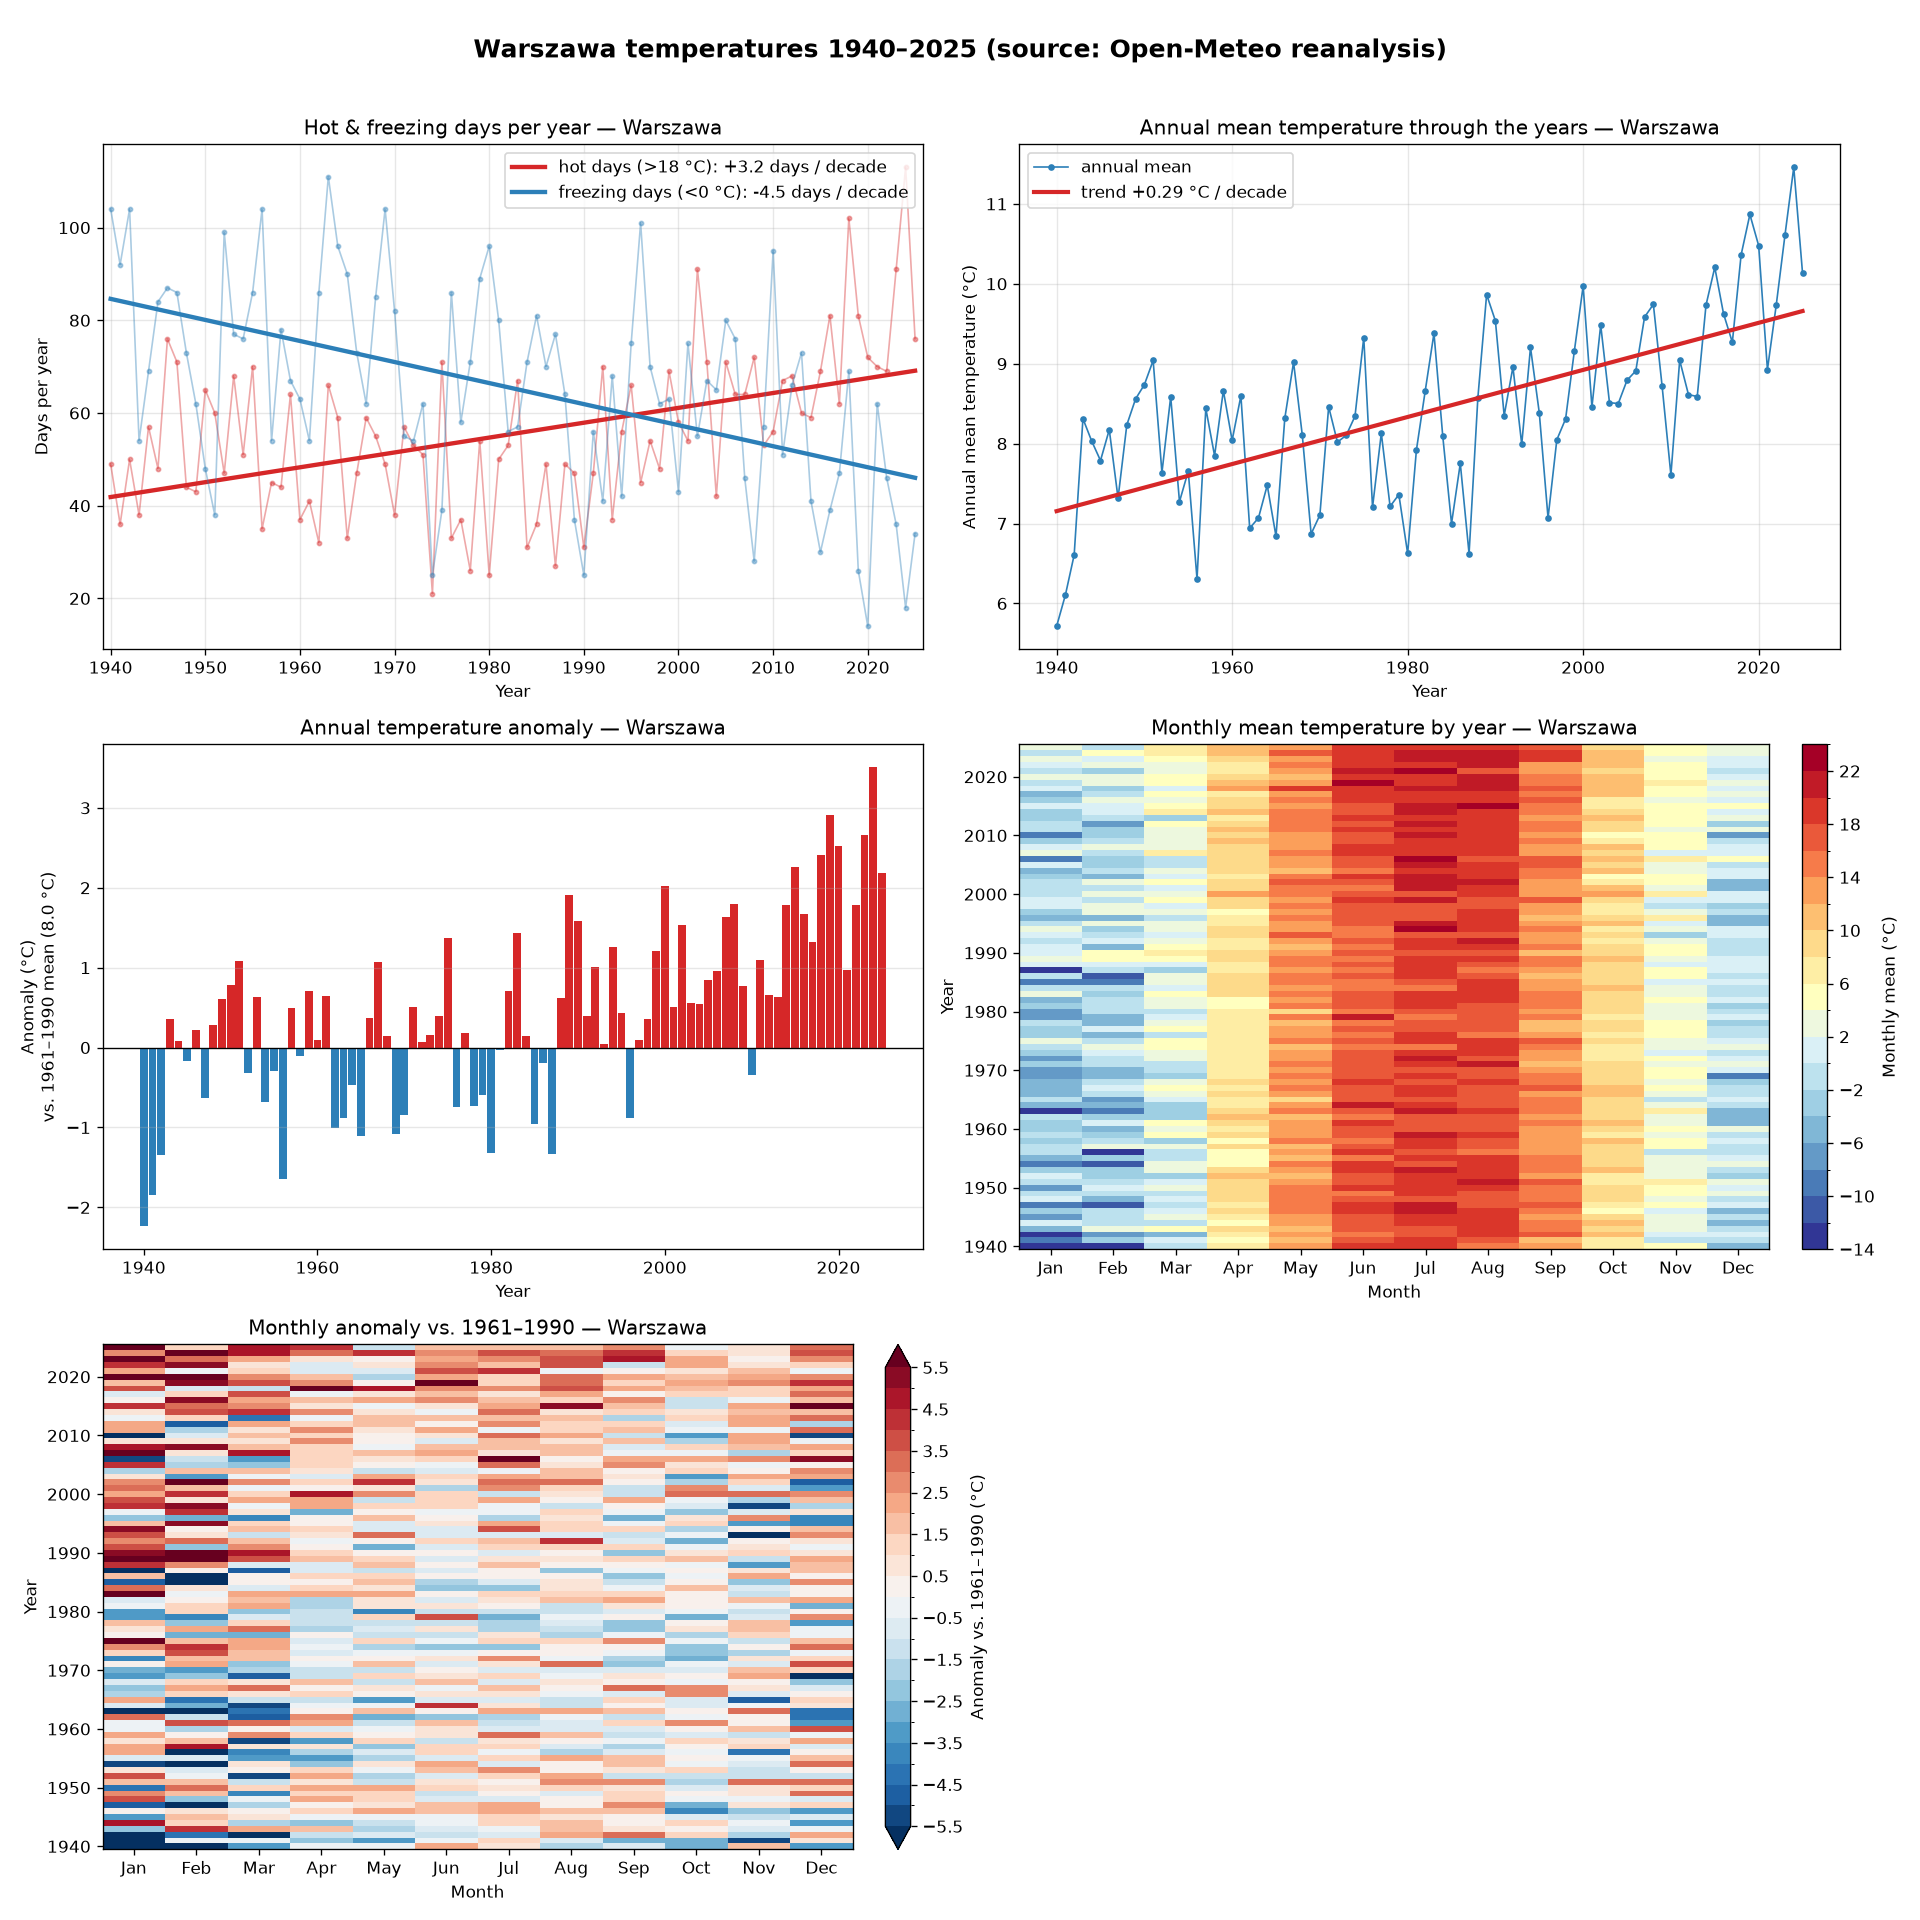
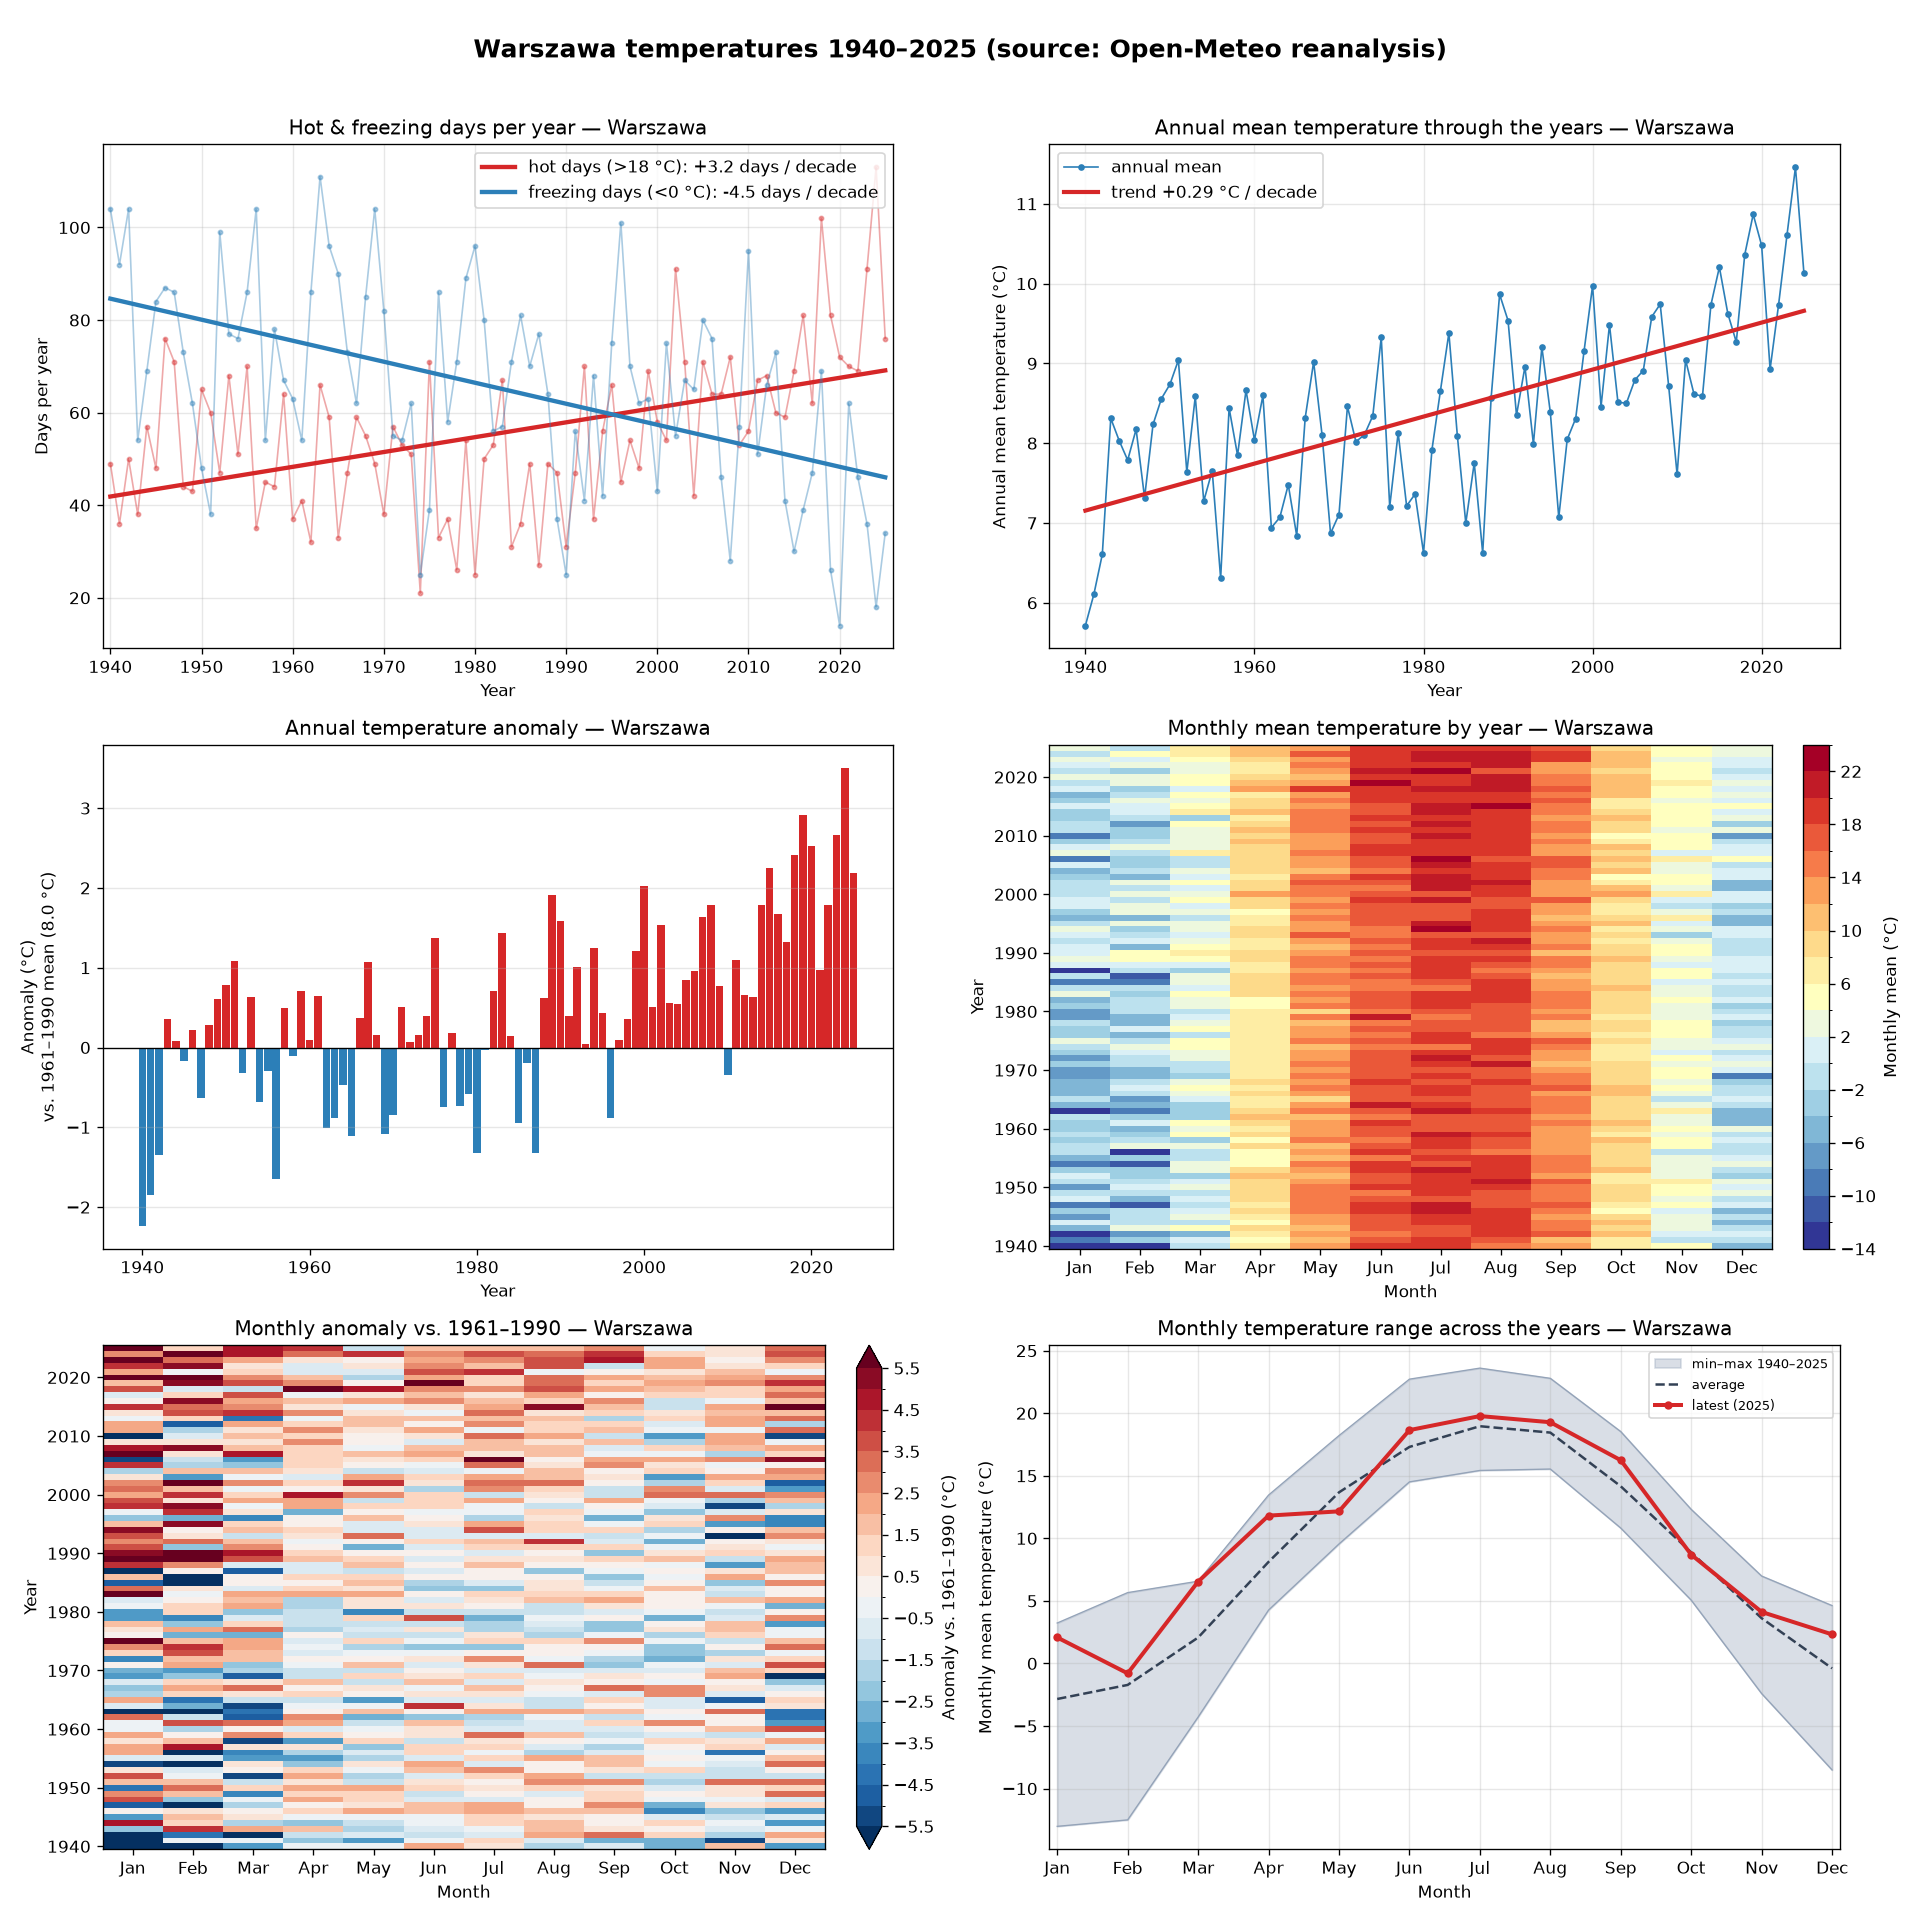
Add monthly min–max range chart (latest year vs. historical envelope)
Sixth view: per-month shaded band of the min–max monthly mean across all
years, with the average and the latest year overlaid — shows at a glance
whether the current year hugs the warm edge of everything on record.
Dashboard is now a full 3×2 (no blank slot). Localised in pl/en/de.

diff --git a/plots.py b/plots.py
@@ -1,12 +1,13 @@
 """Plotting of temperature distribution and long-term change.
 
-Five views are produced:
+Six views are produced:
 
 * ``plot_threshold_days``          -- hot (>18°C) & freezing (<0°C) days per year
 * ``plot_yearly_trend``            -- annual mean per year + least-squares trend
 * ``plot_anomalies``               -- annual anomaly vs. a 1961-1990 baseline
 * ``plot_monthly_heatmap``         -- year x month grid of monthly means
 * ``plot_monthly_anomaly_heatmap`` -- per-month anomaly vs. 1961-1990
+* ``plot_monthly_range``           -- per-month min-max envelope + latest year
 
 Every plotting helper takes a translation table ``tr`` (see :mod:`i18n`) so all
 labels are localised. ``build_dashboard`` arranges the views in one figure; each
@@ -244,6 +245,41 @@ def plot_monthly_anomaly_heatmap(
     colorbar.set_label(tr["anom_heatmap_cbar"].format(base=base_label))
 
 
+def plot_monthly_range(
+    df: pd.DataFrame, location: Location, ax: plt.Axes, tr: dict
+) -> None:
+    """Each month's min–max envelope across all years, with the latest year.
+
+    The shaded band is the full historical range of monthly means; the bold
+    line is the most recent year — at a glance you see whether 'now' sits near
+    the warm (top) edge of everything on record.
+    """
+    pivot = monthly_pivot(df)
+    months = list(range(1, 13))
+    mn = pivot.min(axis=0).to_numpy()
+    mx = pivot.max(axis=0).to_numpy()
+    avg = pivot.mean(axis=0).to_numpy()
+    start, latest_year = int(pivot.index.min()), int(pivot.index.max())
+    latest = pivot.loc[latest_year].to_numpy()
+
+    ax.fill_between(months, mn, mx, color="#94a3b8", alpha=0.35,
+                    label=tr["range_min_max"].format(start=start, end=latest_year))
+    ax.plot(months, mx, color="#94a3b8", linewidth=0.8)
+    ax.plot(months, mn, color="#94a3b8", linewidth=0.8)
+    ax.plot(months, avg, color="#334155", linewidth=1.5, linestyle="--",
+            label=tr["range_average"])
+    ax.plot(months, latest, color="#d62728", linewidth=2.4, marker="o",
+            markersize=4, label=tr["range_latest"].format(year=latest_year))
+    ax.set_title(tr["range_title"].format(name=location.name))
+    ax.set_xlabel(tr["month"])
+    ax.set_ylabel(tr["range_ylabel"])
+    ax.set_xticks(months)
+    ax.set_xticklabels(tr["months"])
+    ax.grid(True, alpha=0.3)
+    ax.legend(loc="best", fontsize=8)
+    ax.margins(x=0.01)
+
+
 # --- composition -----------------------------------------------------------
 def build_dashboard(df: pd.DataFrame, location: Location, tr: dict) -> Figure:
     """Arrange all five views in a single 3x2 figure (one slot left blank)."""
@@ -253,7 +289,7 @@ def build_dashboard(df: pd.DataFrame, location: Location, tr: dict) -> Figure:
     plot_anomalies(df, location, axes[1, 0], tr)
     plot_monthly_heatmap(df, location, axes[1, 1], tr)
     plot_monthly_anomaly_heatmap(df, location, axes[2, 0], tr)
-    axes[2, 1].axis("off")  # no sixth chart for this slot
+    plot_monthly_range(df, location, axes[2, 1], tr)
     start, end = df.index.year.min(), df.index.year.max()
     fig.suptitle(
         tr["dashboard_suptitle"].format(name=location.name, start=start, end=end),
@@ -284,6 +320,7 @@ def save_all(
         "anomalies": plot_anomalies,
         "monthly-heatmap": plot_monthly_heatmap,
         "monthly-anomaly": plot_monthly_anomaly_heatmap,
+        "monthly-range": plot_monthly_range,
     }
     for name, draw in panels.items():
         fig, ax = plt.subplots(figsize=(9, 5.5))

diff --git a/i18n.py b/i18n.py
@@ -64,6 +64,13 @@ TRANSLATIONS: dict[str, dict] = {
         "map_sub": "Pick a capital on the map — or from the list",
         "choose_city": "Choose a city…",
         "back_to_map": "🗺 Map",
+        "range_title": "Monthly temperature range across the years — {name}",
+        "range_min_max": "min–max {start}–{end}",
+        "range_average": "average",
+        "range_latest": "latest ({year})",
+        "range_ylabel": "Monthly mean temperature (°C)",
+        "cap_range": "Each month's min–max range over the years, with the latest "
+                     "year — is it hugging the warm edge?",
         "footer": 'Generated {date} · data from '
                   '<a href="https://open-meteo.com/">Open-Meteo</a> '
                   'historical reanalysis (ERA5) · '
@@ -117,6 +124,13 @@ TRANSLATIONS: dict[str, dict] = {
         "map_sub": "Wybierz stolicę na mapie — lub z listy",
         "choose_city": "Wybierz miasto…",
         "back_to_map": "🗺 Mapa",
+        "range_title": "Zakres miesięcznych temperatur na przestrzeni lat — {name}",
+        "range_min_max": "min–maks {start}–{end}",
+        "range_average": "średnia",
+        "range_latest": "ostatni ({year})",
+        "range_ylabel": "Średnia miesięczna temperatura (°C)",
+        "cap_range": "Zakres min–maks każdego miesiąca w kolejnych latach, "
+                     "z ostatnim rokiem — czy zbliża się do maksimum?",
         "footer": 'Wygenerowano {date} · dane z '
                   '<a href="https://open-meteo.com/">Open-Meteo</a> '
                   '(reanaliza historyczna ERA5) · '
@@ -169,6 +183,13 @@ TRANSLATIONS: dict[str, dict] = {
         "map_sub": "Wählen Sie eine Hauptstadt auf der Karte — oder aus der Liste",
         "choose_city": "Stadt wählen…",
         "back_to_map": "🗺 Karte",
+        "range_title": "Monatliche Temperaturspanne über die Jahre — {name}",
+        "range_min_max": "Min–Max {start}–{end}",
+        "range_average": "Durchschnitt",
+        "range_latest": "aktuell ({year})",
+        "range_ylabel": "Monatliche Mitteltemperatur (°C)",
+        "cap_range": "Min–Max-Spanne jedes Monats über die Jahre, mit dem "
+                     "aktuellen Jahr — liegt es am oberen Rand?",
         "footer": 'Erstellt {date} · Daten von '
                   '<a href="https://open-meteo.com/">Open-Meteo</a> '
                   '(historische Reanalyse ERA5) · '

diff --git a/report.py b/report.py
@@ -172,6 +172,10 @@ _PAGE = Template(
       <figcaption>${cap_anom_heatmap}</figcaption>
     </figure>
     <figure>
+      <img src="${slug}_monthly-range.png" alt="">
+      <figcaption>${cap_range}</figcaption>
+    </figure>
+    <figure>
       <img src="${slug}_threshold-days.png" alt="">
       <figcaption>${cap_threshold}</figcaption>
     </figure>
@@ -292,6 +296,7 @@ def build_site(
         cap_anomalies=tr["cap_anomalies"],
         cap_heatmap=tr["cap_heatmap"],
         cap_anom_heatmap=tr["cap_anom_heatmap"],
+        cap_range=tr["cap_range"],
         cap_threshold=tr["cap_threshold"],
         hint=tr["hint"],
         footer=tr["footer"].format(date=dt.date.today().isoformat()),

diff --git a/README.md b/README.md
@@ -15,7 +15,7 @@ localised too). Add a city in `config.py`, a language in `i18n.py`.
 
 ## What it makes
 
-A dashboard plus five standalone PNGs in `output/`:
+A dashboard plus six standalone PNGs in `output/`:
 
 | View | Question it answers |
 |------|---------------------|
@@ -24,6 +24,7 @@ A dashboard plus five standalone PNGs in `output/`:
 | **Anomaly bars** | How does each year compare to the 1961–1990 norm? (blue = cooler, red = warmer) |
 | **Month × year heatmap** | *Which months/seasons* are warming? (discrete 2 °C bands) |
 | **Monthly anomaly heatmap** | How much has *each month* shifted vs. its 1961–1990 norm? (seasonal cycle removed, robust scale) |
+| **Monthly min–max range** | For each month, where does the latest year fall within the full historical envelope? |
 
 Every view is time-aware: the hot/freezing-day counts track the distribution's
 tails year by year, and the monthly-anomaly view